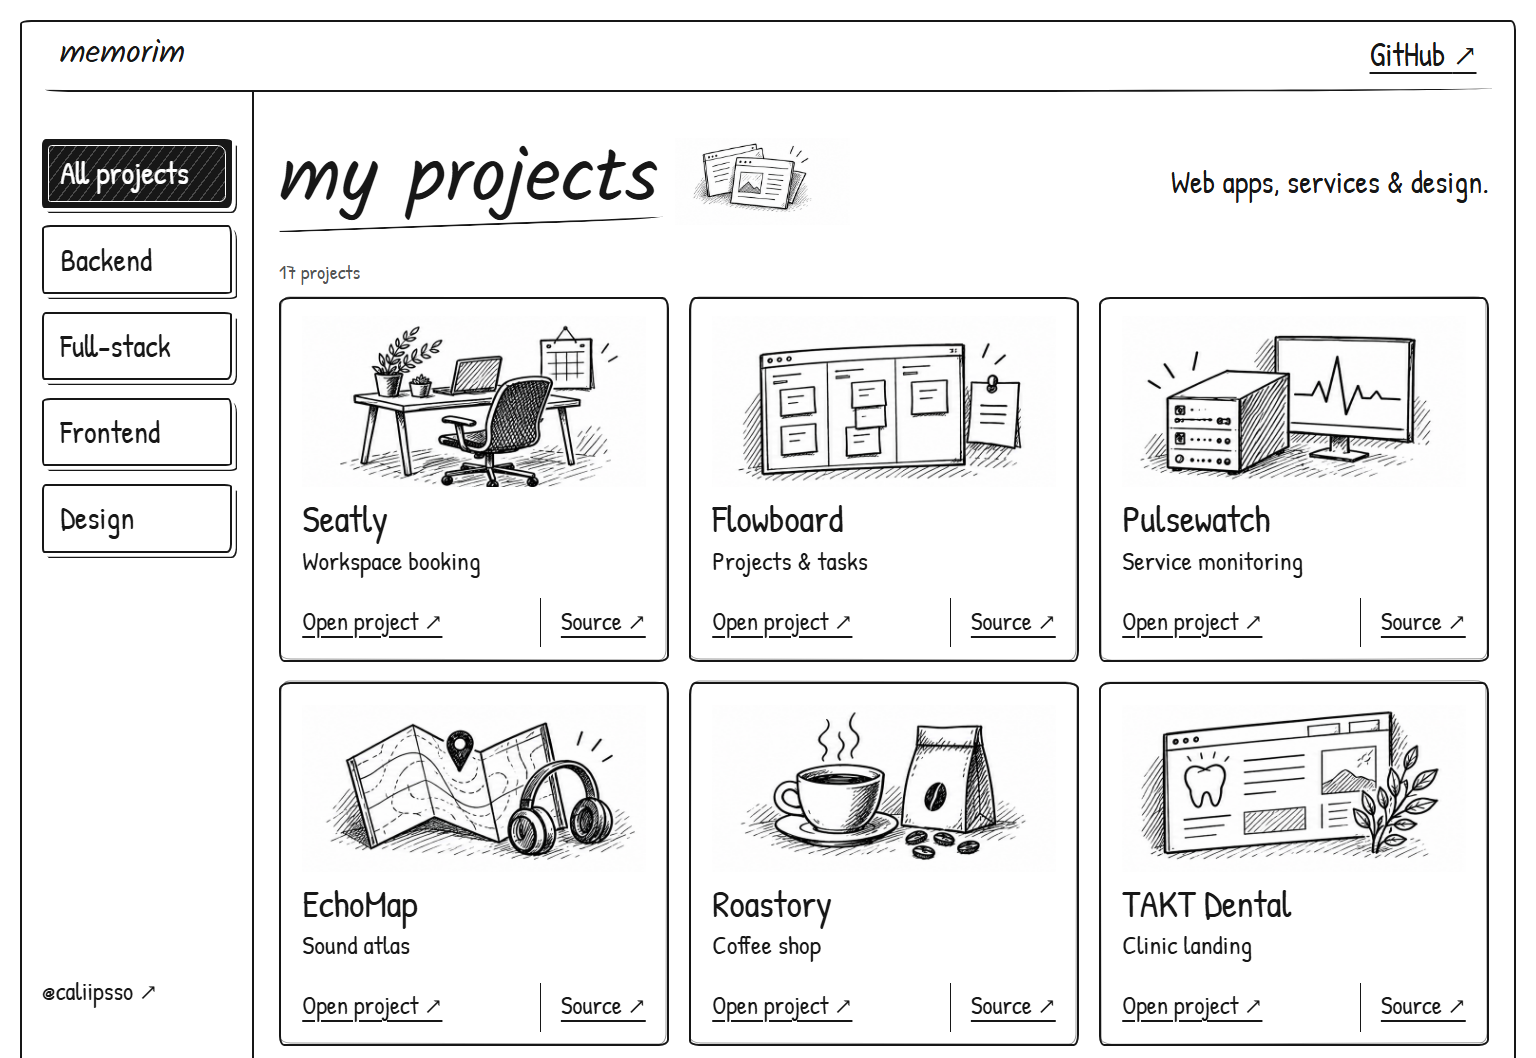
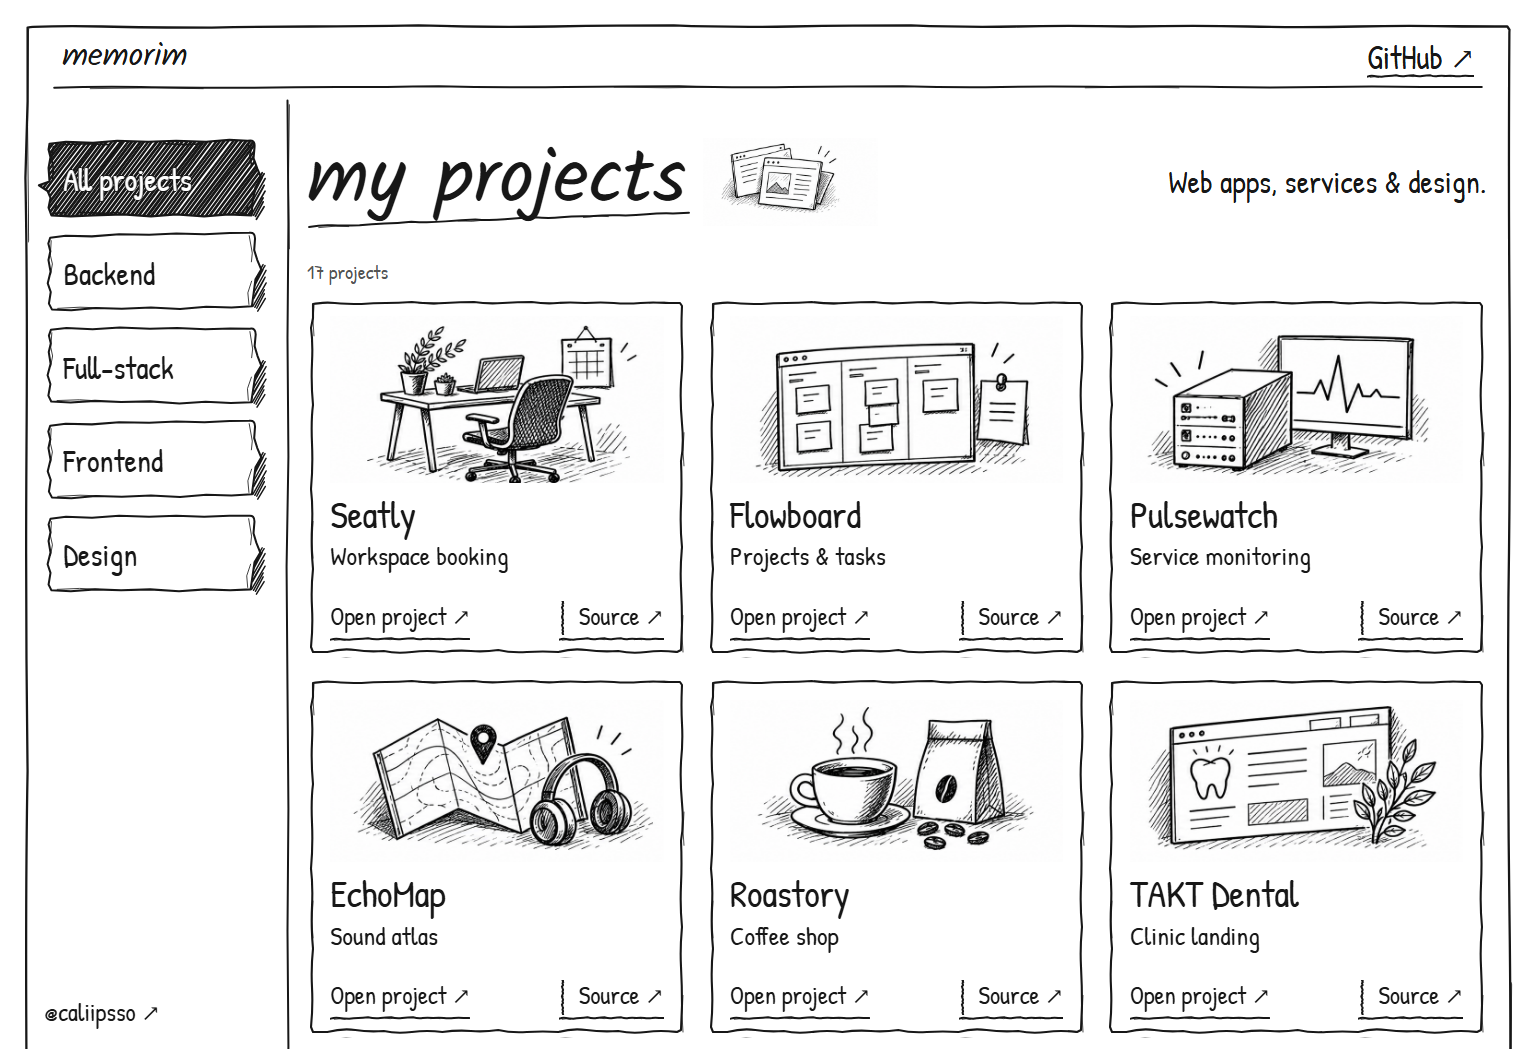
Match sketch reference with rough ink borders and hatched tabs

Changed region(s): [[0.0, 0.0, 1.0, 1.0]]

diff --git a/catalog/styles.css b/catalog/styles.css
@@ -10,7 +10,7 @@
 }
 * { box-sizing: border-box; }
 html { color-scheme: light; background: #fff; color: #171717; }
-body { margin: 0; padding: 16px; font: 20px/1.35 "Patrick Hand", cursive; }
+body { margin: 0; padding: 18px; font: 20px/1.35 "Patrick Hand", cursive; }
 button, a { -webkit-tap-highlight-color: transparent; }
 a { color: inherit; text-decoration-thickness: 1.5px; text-underline-offset: 5px; }
 a:hover { text-decoration-style: wavy; }
@@ -19,11 +19,11 @@ a:hover { text-decoration-style: wavy; }
 .skip-link:focus { top: 8px; }
 .sketchbook {
   display: grid;
-  grid-template-columns: 184px minmax(0, 1fr);
+  grid-template-columns: 206px minmax(0, 1fr);
   max-width: 1600px;
   margin: auto;
-  border: 2px solid;
-  border-radius: 9px 4px 7px 3px / 3px 8px 4px 9px;
+  border: 2px solid transparent;
+  border-image: url("assets/ink-frame.svg") 12 / 11px / 2px stretch;
 }
 .topbar {
   grid-column: 1 / -1;
@@ -32,8 +32,7 @@ a:hover { text-decoration-style: wavy; }
   justify-content: space-between;
   margin: 0 18px;
   padding: 9px 12px 10px;
-  border-bottom: 2px solid;
-  border-radius: 0 0 38% 2% / 0 0 3px 2px;
+  background: url("assets/ink-line.svg") center bottom / 100% 8px no-repeat;
   font-size: 26px;
 }
 .brand { font-family: Kalam, cursive; text-decoration: none; }
@@ -48,38 +47,37 @@ a:hover { text-decoration-style: wavy; }
   min-height: calc(100dvh / 1.25 - 110px);
   padding: 38px 16px 20px;
 }
-nav { display: grid; gap: 14px; }
+nav { display: grid; gap: 10px; }
 nav button {
   position: relative;
   isolation: isolate;
   width: 100%;
-  min-height: 54px;
-  padding: 9px 13px;
-  border: 1.8px solid #171717;
-  border-radius: 3px 6px 4px 2px / 5px 2px 7px 4px;
-  background: #fff;
+  min-height: 65px;
+  padding: 12px 15px;
+  border: 0;
+  background: transparent;
   color: #171717;
   text-align: left;
   font: inherit;
   font-size: 25px;
   cursor: pointer;
-  box-shadow: 3px 3px 0 #fff, 4px 4px 0 #171717;
 }
-nav button:nth-child(even) { border-radius: 7px 3px 5px 2px / 3px 8px 2px 5px; }
-nav button:hover { transform: translate(1px, -1px); }
-nav button[aria-pressed="true"] { background: #171717; color: #fff; }
-nav button[aria-pressed="true"]::before {
+nav button::before {
   content: "";
   position: absolute;
-  inset: 3px;
+  inset: -4px -5px -4px -7px;
   z-index: -1;
-  border: 1px solid #fff;
-  border-radius: 3px 7px 5px 2px;
-  background: repeating-linear-gradient(127deg, transparent 0 3px, #ffffff38 3px 4px, transparent 4px 7px);
+  background: url("assets/tab.svg") center / 100% 100% no-repeat;
+  pointer-events: none;
 }
+nav button:nth-child(2n)::before { transform: rotate(-.6deg); }
+nav button:nth-child(3n)::before { transform: rotate(.5deg); }
+nav button[aria-pressed="true"] { color: #fff; text-shadow: 1px 0 #171717, -1px 0 #171717, 0 1px #171717, 0 -1px #171717; }
+nav button[aria-pressed="true"]::before { background-image: url("assets/tab-active.svg"); }
+nav button:focus-visible { outline-color: #171717; }
 .contact { margin-top: 48px; font-size: 20px; text-decoration: none; white-space: nowrap; }
 .contact:hover { text-decoration: underline; }
-main { min-width: 0; padding: 18px 20px 16px; border-left: 1.8px solid; container-type: inline-size; }
+main { min-width: 0; padding: 18px 20px 16px; background: url("assets/ink-divider.svg") left top / 9px 100% no-repeat; container-type: inline-size; }
 .intro { display: flex; align-items: center; justify-content: space-between; gap: 18px; min-height: 108px; }
 .intro-title { display: flex; align-items: center; gap: 14px; min-width: 0; }
 h1 { position: relative; margin: 0; font: 62px/1.25 Kalam, cursive; white-space: nowrap; }
@@ -89,9 +87,8 @@ h1::after {
   left: 0;
   right: -4px;
   bottom: 4px;
-  height: 6px;
-  border-bottom: 2px solid;
-  border-radius: 40% 20% 30% 10%;
+  height: 9px;
+  background: url("assets/ink-line.svg") center / 100% 100% no-repeat;
   transform: rotate(-2deg);
 }
 .intro > p { margin: 0; font-size: 25px; }
@@ -104,20 +101,9 @@ h1::after {
   position: relative;
   min-width: 0;
   padding: 13px 17px 10px;
-  border: 1.8px solid;
-  border-radius: 9px 5px 8px 4px / 6px 9px 5px 8px;
+  border: 2px solid transparent;
+  border-image: url("assets/ink-frame.svg") 12 / 10px / 1px stretch;
 }
-.project::after {
-  content: "";
-  position: absolute;
-  inset: -2px 0 0 -1px;
-  border: 1px solid #17171770;
-  border-radius: 7px 10px 6px 9px / 9px 4px 8px 5px;
-  transform: rotate(.17deg);
-  pointer-events: none;
-}
-.project:nth-child(3n + 2) { border-radius: 5px 11px 4px 8px / 10px 5px 9px 4px; }
-.project:nth-child(3n)::after { transform: rotate(-.2deg); }
 .project[hidden] { display: none; }
 .project-art { aspect-ratio: 2; width: 100%; background-repeat: no-repeat; margin: 0 0 8px; }
 .art-main { background-image: url("assets/projects-main.png"); background-size: 300% 200%; }
@@ -141,7 +127,9 @@ h2 { margin: 0; font: 30px/1.15 "Patrick Hand", cursive; }
 .project > p { margin: 2px 0 16px; font-size: 21px; }
 .links { display: flex; align-items: center; justify-content: space-between; gap: 10px; margin-top: auto; font-size: 20px; }
 .links a { padding: 5px 0 7px; white-space: nowrap; }
-.links a + a { border-left: 1px solid; padding-left: 16px; }
+.links a, .github, footer a { text-decoration: none; background: url("assets/ink-line.svg") center bottom / 100% 6px no-repeat; }
+.links a + a { position: relative; padding-left: 16px; }
+.links a + a::before { content: ""; position: absolute; left: 0; top: 15%; bottom: 15%; width: 6px; background: url("assets/ink-divider.svg") center / 100% 100% no-repeat; }
 footer { display: flex; justify-content: space-between; gap: 16px; padding-top: 25px; font-size: 18px; }
 @container (max-width: 920px) {
   .intro { align-items: flex-start; flex-direction: column; gap: 4px; padding-bottom: 7px; }
@@ -164,7 +152,7 @@ footer { display: flex; justify-content: space-between; gap: 16px; padding-top: 
   nav { display: flex; flex-wrap: wrap; gap: 10px; }
   nav button { width: auto; min-height: 44px; padding: 5px 13px; font-size: 21px; }
   .contact { margin: 0; font-size: 18px; }
-  main { border-left: 0; border-top: 1px solid; padding: 17px 14px 14px; }
+  main { background: url("assets/ink-line.svg") center top / 100% 9px no-repeat; padding: 17px 14px 14px; }
   .intro { min-height: 0; }
   .intro-title { width: 100%; justify-content: space-between; gap: 8px; }
   .result { margin-top: 13px; }
@@ -175,4 +163,3 @@ footer { display: flex; justify-content: space-between; gap: 16px; padding-top: 
   .project { padding-inline: 14px; }
   .links { font-size: 19px; }
 }
-@media (prefers-reduced-motion: reduce) { nav button:hover { transform: none; } }
